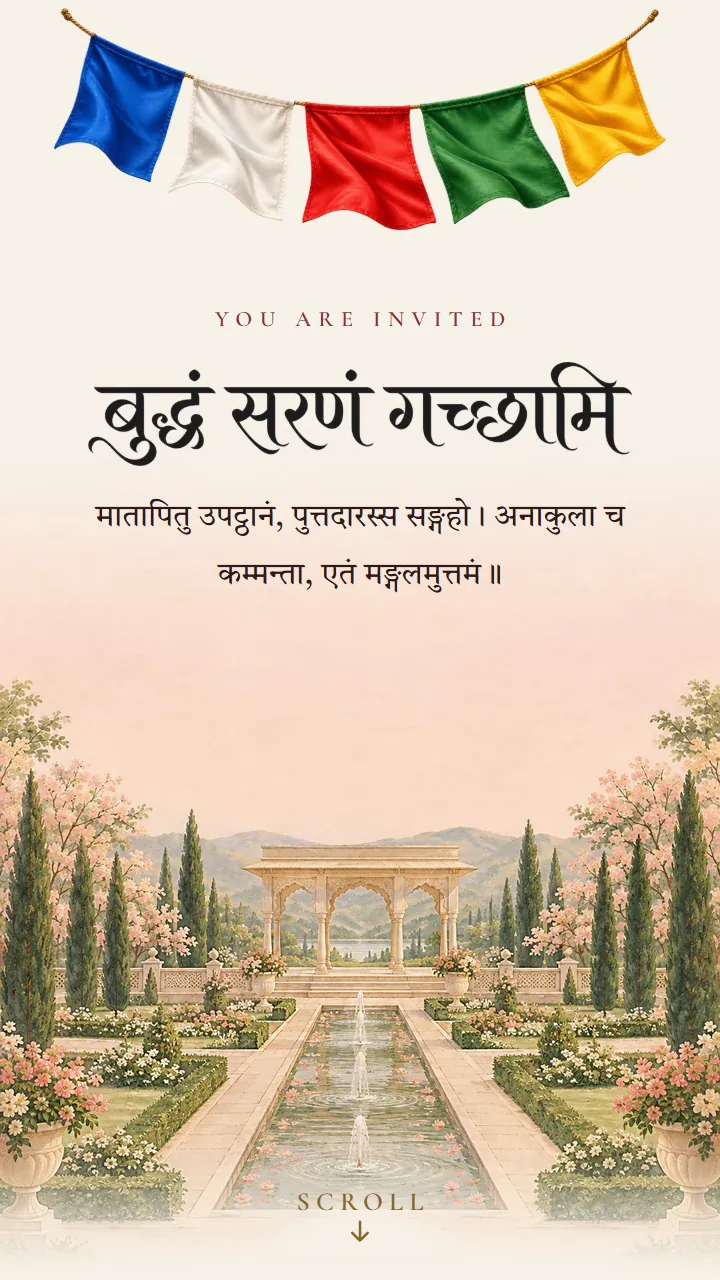
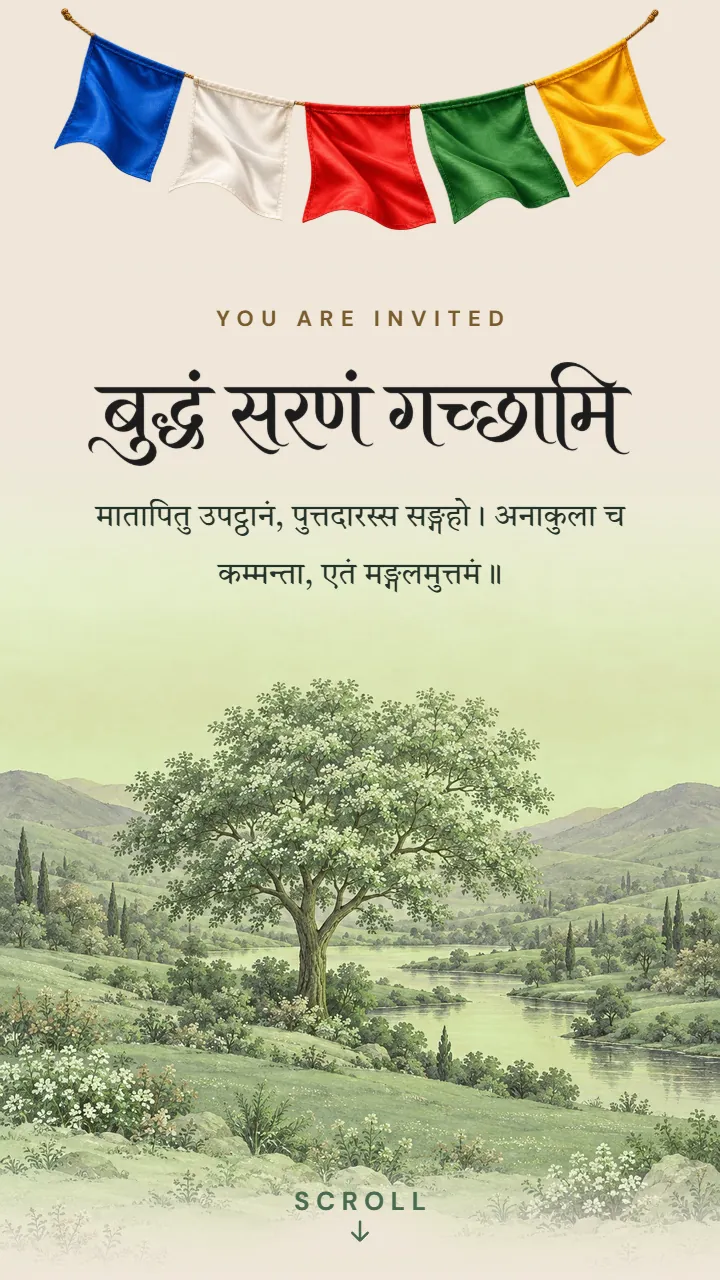
style(traditions): new look for Bodhi Ivory
Sand and jade: the warm sand ground with deep green and bronze inks and a jade accent (4.6:1 on sand), in place of ivory, maroon and gold. On the first screen the valley and its broad tree printed in jade (sceneTone; the jade filter is softened here so the sky stays pale), in place of the palace garden it shared with six cards. The prayer flags still head it; the endless knot stands above the names in place of the dharma wheel, and the Bodhi leaf and conch in the corners in place of the lotus. Green leaves drift; mogra garlands part the sections. The cover is the breeze drawn on the card's own sand instead of the gatefold, and the names are in DM Sans (clean).

Gallery preview remade. Saved cards keep the look they were saved with.

diff --git a/lib/presets.ts b/lib/presets.ts
@@ -690,25 +690,29 @@ const PRESETS: readonly Preset[] = [
   {
     id: "bodhi-ivory",
     name: "Bodhi Ivory",
-    description: "Ivory, maroon and gold, prayer flags, the dharma wheel and a Bodhi leaf.",
+    description: "Sand and jade, prayer flags over the valley tree, the endless knot and a Bodhi leaf.",
     tradition: "buddhist",
     settings: {
-      paletteId: "cream",
-      /* Maroon for the second ink, and gold for the word-mark and the rules. */
-      textPairId: "ivoryRose",
-      accentOverride: PALETTE_CHAMPAGNE,
-      fontPairId: "royal",
+      paletteId: "sand",
+      /* Deep green for the first ink, and the sage pair's bronze for the second. */
+      textPairId: "sageGarden",
+      /* Jade for the word-mark and the rules: 4.6:1 on Sand. */
+      accentOverride: "#4A6B52",
+      fontPairId: "clean",
       density: "comfortable",
       /* No frame: the flags are the border, and a second one would crowd them. */
       borderStyle: "none",
-      decorMotion: "float",
+      decorMotion: "drift",
       decorIntensity: "subtle",
       butterflies: "none",
-      leaves: false,
+      /* Green leaves drifting from the tree. */
+      leaves: true,
+      nature: "greenLeaves",
       petals: "none",
-      coverAnimation: "fold-unfold",
-      /* The lotus at the left and the Bodhi leaf at the right: the pack's own order. */
-      ornaments: ["prayerFlagString", "dharmaWheel", "lotus", "bodhiLeaf"],
+      /* The breeze, drawn on the card's own sand. */
+      coverAnimation: "petal-dust",
+      /* The Bodhi leaf at the left and the conch at the right: the pack's own order. */
+      ornaments: ["prayerFlagString", "endlessKnot", "bodhiLeaf", "conchShell"],
       calligraphy: "buddhistBuddhamSaranam",
       greetingIfNone: "namoBuddhaya",
       /* The Mangala Sutta's verse on the home: the pack's wedding blessing. */

diff --git a/templates/bodhi-ivory/config.ts b/templates/bodhi-ivory/config.ts
@@ -5,14 +5,17 @@ import type { TemplateConfig } from "@/templates/types";
 /**
  * The "bodhi-ivory" preset as a template: its look from lib/presets.ts, and
  * the colourways and type pairs a host may change it to. See presetTemplate.
+ *
+ * Its painting is the valley and its broad tree printed in jade, under the
+ * prayer flags; mogra garlands part its sections.
  */
 export const BODHI_IVORY: TemplateConfig = presetTemplate({
   presetId: "bodhi-ivory",
   preview,
-  ownPaletteLabel: "Ivory",
-  palettes: [
-    plain("sand", "sand"),
-    plain("midnight", "midnight"),
-  ],
+  ownPaletteLabel: "Sand",
+  palettes: [plain("ivory", "cream"), plain("midnight", "midnight")],
   fontPairs: ["elegant", "graceful"],
+  scene: "valleyTree",
+  sceneTone: "jade",
+  divider: "mogra",
 });

diff --git a/lib/scene.ts b/lib/scene.ts
@@ -231,7 +231,7 @@ export const SCENE_TONES: Readonly<Record<SceneTone, string | null>> = {
   natural: null,
   rose: "sepia(0.35) hue-rotate(-28deg) saturate(1.15)",
   gold: "sepia(0.6) saturate(0.85) brightness(1.03)",
-  jade: "sepia(0.35) hue-rotate(48deg) saturate(0.8)",
+  jade: "sepia(0.25) hue-rotate(36deg) saturate(0.7)",
 };
 
 /**
